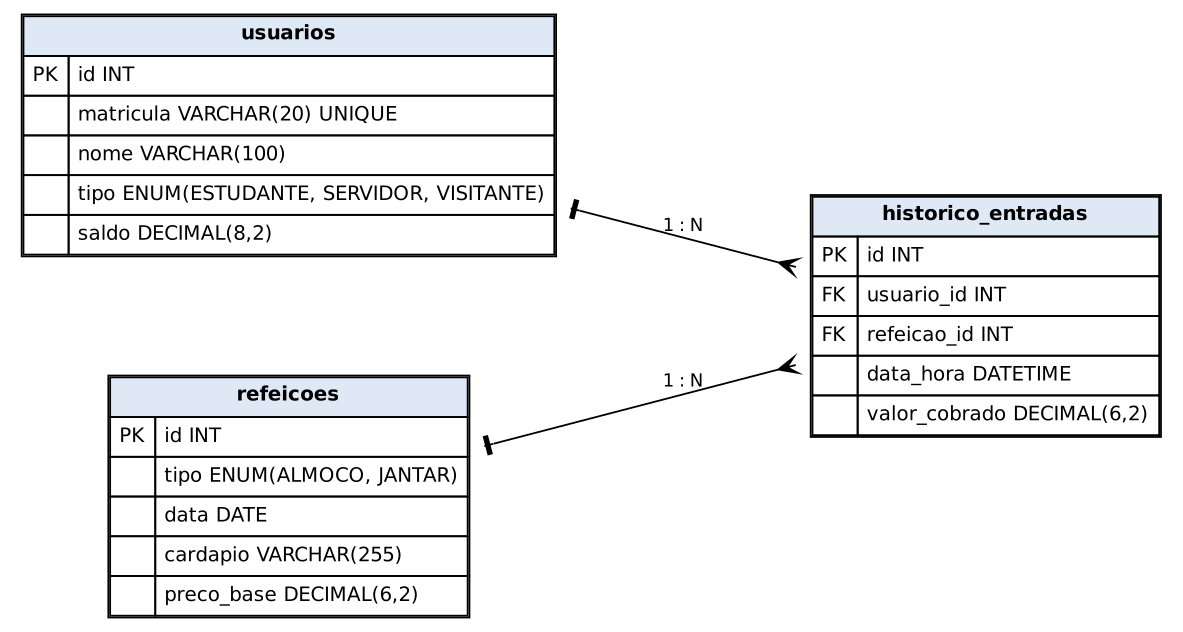
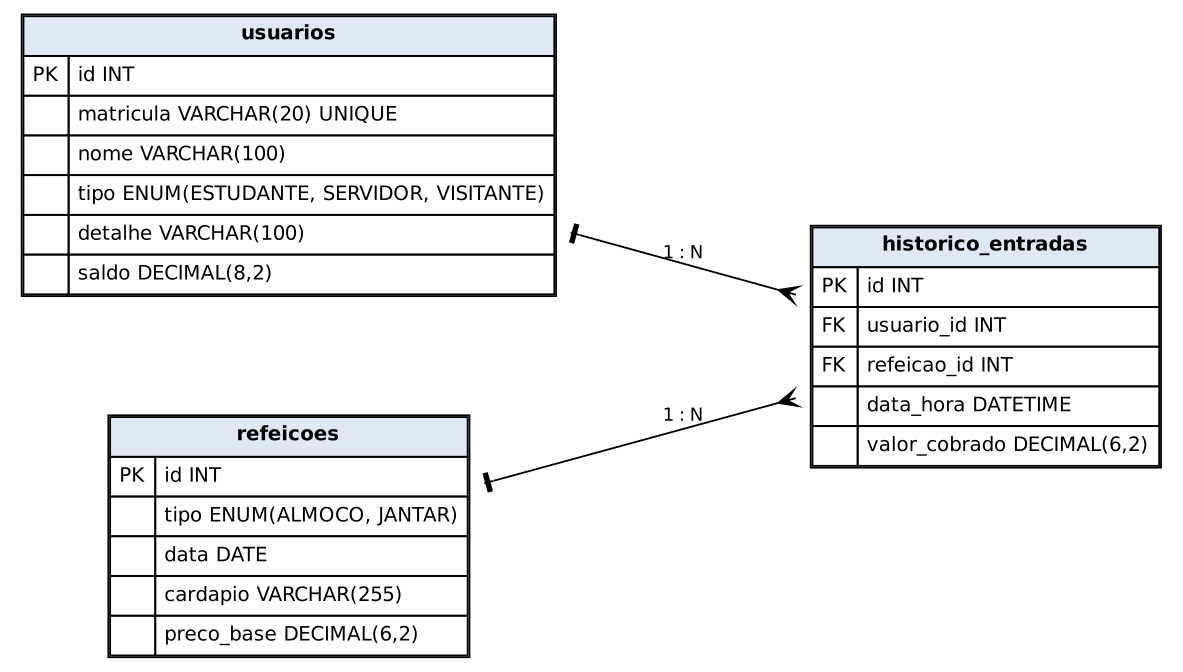
Adiciona DAOs, historico, SQL atualizado e DER

diff --git a/src/nutriru/persistencia/UsuarioDAO.java b/src/nutriru/persistencia/UsuarioDAO.java
@@ -1,0 +1,98 @@
+package nutriru.persistencia;
+
+import java.sql.Connection;
+import java.sql.PreparedStatement;
+import java.sql.ResultSet;
+import java.sql.SQLException;
+import java.sql.Statement;
+import java.util.ArrayList;
+import java.util.List;
+
+import nutriru.modelo.Estudante;
+import nutriru.modelo.Servidor;
+import nutriru.modelo.UsuarioRU;
+import nutriru.modelo.Visitante;
+
+/** Acesso a tabela usuarios. */
+public class UsuarioDAO {
+
+    public void inserir(UsuarioRU usuario) throws SQLException {
+        String sql = "INSERT INTO usuarios (matricula, nome, tipo, detalhe, saldo) VALUES (?, ?, ?, ?, ?)";
+        try (Connection conexao = FabricaConexao.getConexao();
+                PreparedStatement ps = conexao.prepareStatement(sql, Statement.RETURN_GENERATED_KEYS)) {
+            ps.setString(1, usuario.getMatricula());
+            ps.setString(2, usuario.getNome());
+            ps.setString(3, usuario.getTipo());
+            ps.setString(4, usuario.getDetalhe());
+            ps.setDouble(5, usuario.getSaldo());
+            ps.executeUpdate();
+            try (ResultSet chaves = ps.getGeneratedKeys()) {
+                if (chaves.next()) {
+                    usuario.setId(chaves.getInt(1));
+                }
+            }
+        }
+    }
+
+    /** Retorna null se nao achar. */
+    public UsuarioRU buscarPorMatricula(String matricula) throws SQLException {
+        String sql = "SELECT * FROM usuarios WHERE matricula = ?";
+        try (Connection conexao = FabricaConexao.getConexao();
+                PreparedStatement ps = conexao.prepareStatement(sql)) {
+            ps.setString(1, matricula);
+            try (ResultSet rs = ps.executeQuery()) {
+                if (rs.next()) {
+                    return montarUsuario(rs);
+                }
+            }
+        }
+        return null;
+    }
+
+    public List<UsuarioRU> listar() throws SQLException {
+        List<UsuarioRU> usuarios = new ArrayList<>();
+        String sql = "SELECT * FROM usuarios ORDER BY nome";
+        try (Connection conexao = FabricaConexao.getConexao();
+                PreparedStatement ps = conexao.prepareStatement(sql);
+                ResultSet rs = ps.executeQuery()) {
+            while (rs.next()) {
+                usuarios.add(montarUsuario(rs));
+            }
+        }
+        return usuarios;
+    }
+
+    public void atualizarSaldo(UsuarioRU usuario) throws SQLException {
+        try (Connection conexao = FabricaConexao.getConexao()) {
+            atualizarSaldo(conexao, usuario);
+        }
+    }
+
+    // versao que recebe a conexao, para usar dentro de uma transacao
+    public void atualizarSaldo(Connection conexao, UsuarioRU usuario) throws SQLException {
+        String sql = "UPDATE usuarios SET saldo = ? WHERE id = ?";
+        try (PreparedStatement ps = conexao.prepareStatement(sql)) {
+            ps.setDouble(1, usuario.getSaldo());
+            ps.setInt(2, usuario.getId());
+            ps.executeUpdate();
+        }
+    }
+
+    // cria o objeto da subclasse certa de acordo com a coluna tipo
+    private UsuarioRU montarUsuario(ResultSet rs) throws SQLException {
+        int id = rs.getInt("id");
+        String matricula = rs.getString("matricula");
+        String nome = rs.getString("nome");
+        String detalhe = rs.getString("detalhe");
+        double saldo = rs.getDouble("saldo");
+        String tipo = rs.getString("tipo");
+
+        if (tipo.equals("ESTUDANTE")) {
+            return new Estudante(id, matricula, nome, detalhe, saldo);
+        } else if (tipo.equals("SERVIDOR")) {
+            return new Servidor(id, matricula, nome, detalhe, saldo);
+        } else {
+            return new Visitante(id, matricula, nome, detalhe, saldo);
+        }
+    }
+}

diff --git a/src/nutriru/persistencia/RefeicaoDAO.java b/src/nutriru/persistencia/RefeicaoDAO.java
@@ -1,0 +1,78 @@
+package nutriru.persistencia;
+
+import java.sql.Connection;
+import java.sql.Date;
+import java.sql.PreparedStatement;
+import java.sql.ResultSet;
+import java.sql.SQLException;
+import java.sql.Statement;
+import java.time.LocalDate;
+import java.util.ArrayList;
+import java.util.List;
+
+import nutriru.modelo.Almoco;
+import nutriru.modelo.Jantar;
+import nutriru.modelo.Refeicao;
+
+/** Acesso a tabela refeicoes. */
+public class RefeicaoDAO {
+
+    public void inserir(Refeicao refeicao) throws SQLException {
+        String sql = "INSERT INTO refeicoes (tipo, data, cardapio, preco_base) VALUES (?, ?, ?, ?)";
+        try (Connection conexao = FabricaConexao.getConexao();
+                PreparedStatement ps = conexao.prepareStatement(sql, Statement.RETURN_GENERATED_KEYS)) {
+            ps.setString(1, refeicao.getTipo());
+            ps.setDate(2, Date.valueOf(refeicao.getData()));
+            ps.setString(3, refeicao.getCardapio());
+            ps.setDouble(4, refeicao.getPrecoBase());
+            ps.executeUpdate();
+            try (ResultSet chaves = ps.getGeneratedKeys()) {
+                if (chaves.next()) {
+                    refeicao.setId(chaves.getInt(1));
+                }
+            }
+        }
+    }
+
+    /** Retorna null se nao achar. */
+    public Refeicao buscarPorId(int id) throws SQLException {
+        String sql = "SELECT * FROM refeicoes WHERE id = ?";
+        try (Connection conexao = FabricaConexao.getConexao();
+                PreparedStatement ps = conexao.prepareStatement(sql)) {
+            ps.setInt(1, id);
+            try (ResultSet rs = ps.executeQuery()) {
+                if (rs.next()) {
+                    return montarRefeicao(rs);
+                }
+            }
+        }
+        return null;
+    }
+
+    public List<Refeicao> listarPorData(LocalDate data) throws SQLException {
+        List<Refeicao> refeicoes = new ArrayList<>();
+        String sql = "SELECT * FROM refeicoes WHERE data = ? ORDER BY id";
+        try (Connection conexao = FabricaConexao.getConexao();
+                PreparedStatement ps = conexao.prepareStatement(sql)) {
+            ps.setDate(1, Date.valueOf(data));
+            try (ResultSet rs = ps.executeQuery()) {
+                while (rs.next()) {
+                    refeicoes.add(montarRefeicao(rs));
+                }
+            }
+        }
+        return refeicoes;
+    }
+
+    private Refeicao montarRefeicao(ResultSet rs) throws SQLException {
+        int id = rs.getInt("id");
+        LocalDate data = rs.getDate("data").toLocalDate();
+        String cardapio = rs.getString("cardapio");
+
+        if (rs.getString("tipo").equals("ALMOCO")) {
+            return new Almoco(id, data, cardapio);
+        } else {
+            return new Jantar(id, data, cardapio);
+        }
+    }
+}

diff --git a/src/nutriru/persistencia/HistoricoEntradaDAO.java b/src/nutriru/persistencia/HistoricoEntradaDAO.java
@@ -1,0 +1,46 @@
+package nutriru.persistencia;
+
+import java.sql.Connection;
+import java.sql.PreparedStatement;
+import java.sql.ResultSet;
+import java.sql.SQLException;
+import java.util.ArrayList;
+import java.util.List;
+
+import nutriru.modelo.HistoricoEntrada;
+
+/** Acesso a tabela historico_entradas. */
+public class HistoricoEntradaDAO {
+
+    // recebe a conexao porque roda junto com o desconto do saldo na mesma transacao
+    public void registrar(Connection conexao, int usuarioId, int refeicaoId, double valorCobrado)
+            throws SQLException {
+        String sql = "INSERT INTO historico_entradas (usuario_id, refeicao_id, valor_cobrado) VALUES (?, ?, ?)";
+        try (PreparedStatement ps = conexao.prepareStatement(sql)) {
+            ps.setInt(1, usuarioId);
+            ps.setInt(2, refeicaoId);
+            ps.setDouble(3, valorCobrado);
+            ps.executeUpdate();
+        }
+    }
+
+    public List<HistoricoEntrada> listarPorUsuario(int usuarioId) throws SQLException {
+        List<HistoricoEntrada> historico = new ArrayList<>();
+        String sql = "SELECT h.data_hora, h.valor_cobrado, r.tipo "
+                + "FROM historico_entradas h JOIN refeicoes r ON h.refeicao_id = r.id "
+                + "WHERE h.usuario_id = ? ORDER BY h.data_hora DESC";
+        try (Connection conexao = FabricaConexao.getConexao();
+                PreparedStatement ps = conexao.prepareStatement(sql)) {
+            ps.setInt(1, usuarioId);
+            try (ResultSet rs = ps.executeQuery()) {
+                while (rs.next()) {
+                    historico.add(new HistoricoEntrada(
+                            rs.getString("tipo"),
+                            rs.getTimestamp("data_hora").toLocalDateTime(),
+                            rs.getDouble("valor_cobrado")));
+                }
+            }
+        }
+        return historico;
+    }
+}

diff --git a/src/nutriru/modelo/HistoricoEntrada.java b/src/nutriru/modelo/HistoricoEntrada.java
@@ -1,0 +1,36 @@
+package nutriru.modelo;
+
+import java.time.LocalDateTime;
+import java.time.format.DateTimeFormatter;
+
+/** Registro de uma passagem pela catraca. */
+public class HistoricoEntrada {
+
+    private String nomeRefeicao;
+    private LocalDateTime dataHora;
+    private double valorCobrado;
+
+    public HistoricoEntrada(String nomeRefeicao, LocalDateTime dataHora, double valorCobrado) {
+        this.nomeRefeicao = nomeRefeicao;
+        this.dataHora = dataHora;
+        this.valorCobrado = valorCobrado;
+    }
+
+    public String getNomeRefeicao() {
+        return nomeRefeicao;
+    }
+
+    public LocalDateTime getDataHora() {
+        return dataHora;
+    }
+
+    public double getValorCobrado() {
+        return valorCobrado;
+    }
+
+    @Override
+    public String toString() {
+        return dataHora.format(DateTimeFormatter.ofPattern("dd/MM/yyyy HH:mm")) + " - " + nomeRefeicao
+                + " - R$ " + String.format("%.2f", valorCobrado);
+    }
+}
